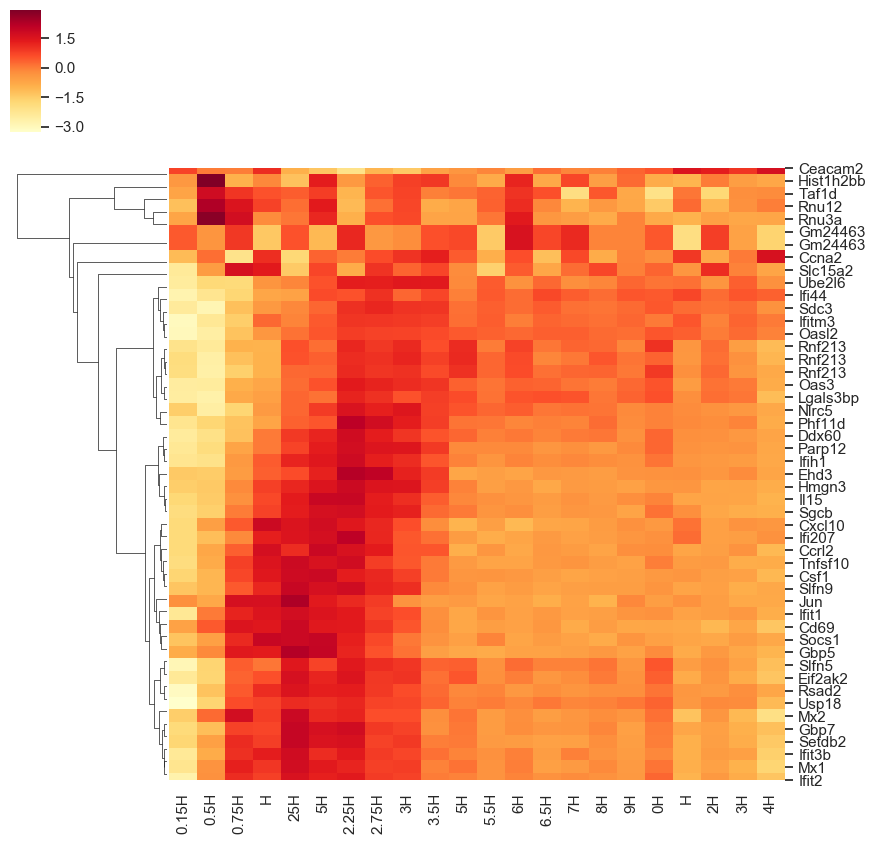
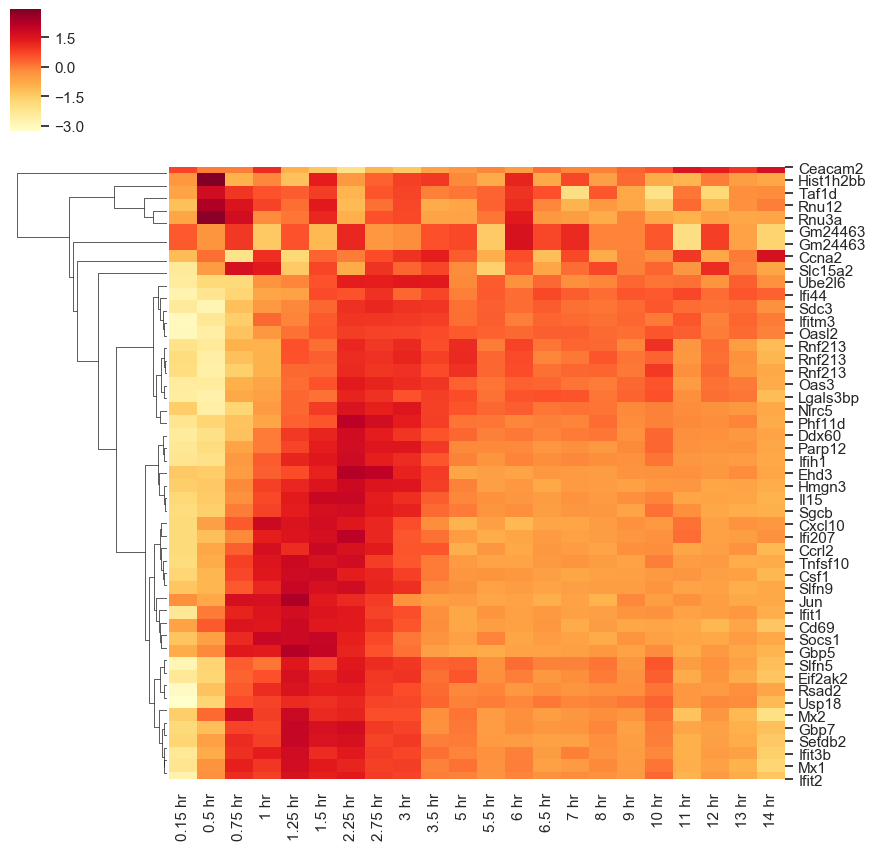
fixed x labels

diff --git a/main.py b/main.py
@@ -112,7 +112,9 @@ def plot_heatmap(counts, num_genes):
     df_norm_row=select_counts.sub(select_counts.mean(axis=1), axis=0)
     # 2: divide by standard dev
     df_norm_row=df_norm_row.div(select_counts.std(axis=1), axis=0 )
-    xlabel = [x.strip('.IFN_1') for x in select_counts.columns]
+    xlabel = [x.replace('.IFN_1','') for x in select_counts.columns]
+    xlabel = [x.replace('H',' hr') for x in xlabel]
+
     ax = sns.clustermap(df_norm_row,
                      metric="correlation", col_cluster=False,
                      xticklabels=xlabel,
